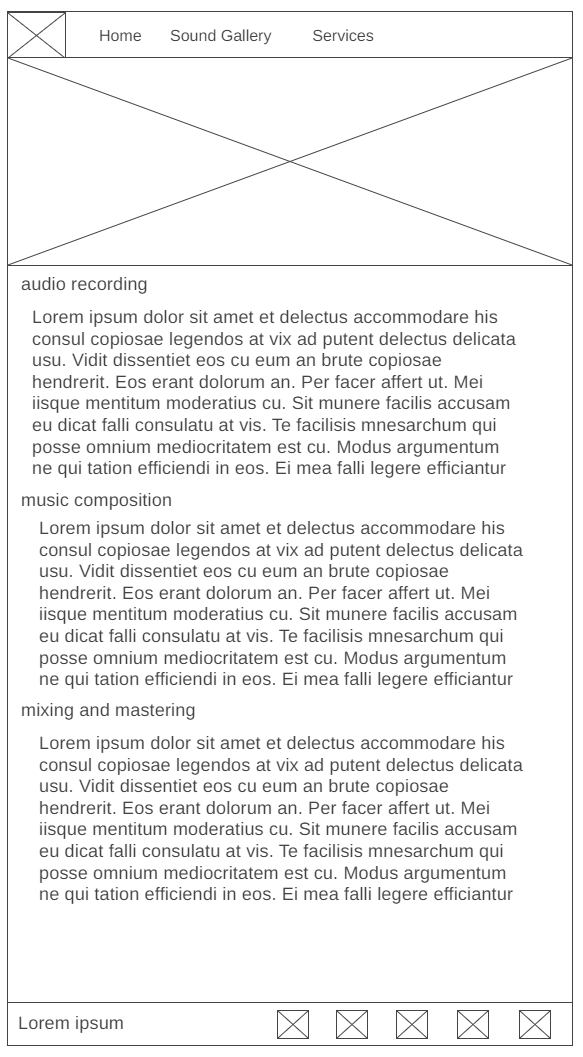
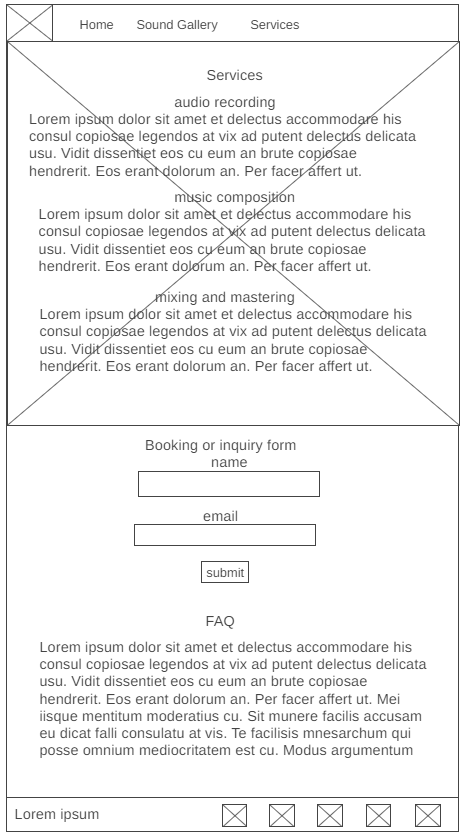
sub page

Changed region(s): [[0.0, 0.0, 1.0, 0.994], [0.9091, 0.0621, 0.9394, 0.0932]]

diff --git a/music/styles/styles.css b/music/styles/styles.css
@@ -1,9 +1,8 @@
-@import url('https://fonts.googleapis.com/css?family=IM+Fell+French+Canon+SC|Lato');
 @import url('https://fonts.googleapis.com/css2?family=Playpen+Sans:wght@200;300&display=swap');
 @import url('https://fonts.googleapis.com/css2?family=Quicksand:wght@300;400&display=swap');
 
 :root {
-    --heading-font: 'Montserrat Regular', 'Playpen Sans', cursive
+    --heading-font:'Playpen Sans', cursive
 }
 
 
@@ -11,7 +10,7 @@
     margin: 0;
 }
 body {
-    font-family: 'Montserrat Light','Quicksand', sans-serif;
+    font-family: 'Quicksand', sans-serif;
     background-color: #0D1321;
     color: #F4F4F4;
     line-height: 1.6;
@@ -41,7 +40,7 @@ nav a {
 }
 nav a:hover {
     color: #F0EBD8;
-    background-color: #0D1321;    
+    background-color: #0D1321;
 }
 
 
@@ -50,7 +49,7 @@ nav a:hover {
     display: grid;
     grid-template-columns: 1fr 1fr 1fr;
     grid-template-rows: 1fr 1fr 1fr 1fr;
-    
+
 }
 .intro img {
     width: 100%;
@@ -73,7 +72,7 @@ nav a:hover {
     grid-row: 4/5;
     color: #F0EBD8;
     align-content: center;
-    padding: 2px;   
+    padding: 2px;
 }
 
 
@@ -115,7 +114,7 @@ nav a:hover {
 
 }
 .aboutus figure img {
-    
+
     box-shadow: 0 0 20px rgba(255, 255, 255, 0.5);
 }
 .aboutus p {
@@ -198,20 +197,24 @@ nav a:hover {
 }
 .newsletter p {
     color: #F0EBD8;
+    margin-bottom: 10px;
 }
-/* Also apply to the form in the services page */
+
+/* Also apply for the form in services page */
 form {
-    display: flex;
-    flex-direction: column;
+    display: grid;
+    grid-template-columns: repeat(5, 1fr);
     align-items: center;
 }
 label {
-    display: block;
+    grid-column: 2/3;
+    text-align: right;
+    padding-right: 10px;
     margin-bottom: 10px;
     color: #F0EBD8;
 }
 input[type="email"], input[type="text"] {
-    width: 30%;
+    grid-column: 3/4;
     padding: 10px;
     margin-bottom: 15px;
     border: 1px solid #F0EBD8;
@@ -220,9 +223,12 @@ input[type="email"], input[type="text"] {
     color: #F0EBD8;
 }
 button {
+    grid-column: 3/4;
     padding: 10px 20px;
+    justify-self: center;
     border: none;
     border-radius: 5px;
+    width: 50%;
     background-color: #F2994A;
     color: #F0EBD8;
     cursor: pointer;
@@ -232,7 +238,7 @@ button:hover {
     background-color: #e06022;
 }
 
-
+/* Sevices page styles */
 /* Services styles */
 .services-provided {
     display: grid;
@@ -249,7 +255,7 @@ button:hover {
 .services-provided h2 {
     text-align: center;
     grid-column: 1/4;
-    grid-row: 1; 
+    grid-row: 1;
     font-size: 60px;
     font-style: italic;
     font-family: var(--heading-font);
@@ -280,7 +286,7 @@ button:hover {
     text-align: center;
 }
 .booking select {
-    width: 15%;
+    grid-column: 3/4;
     padding: 5px;
     margin-bottom: 15px;
     border: 1px solid #F0EBD8;
@@ -290,10 +296,12 @@ button:hover {
     font-style: italic;
 }
 .booking select option {
+    text-align: center;
     color: #0D1321;
     background-color: rgba(239, 234, 215, 0.1)
 }
 
+/* FAQ styles */
 .faq {
     background-color: #1C1F33;
     border-radius: 10px;
@@ -312,6 +320,95 @@ button:hover {
 
 }
 
+
+/* Sound Gallery page styles */
+.project-showcase {
+    display: grid;
+    grid-template-columns: 1fr 1fr 1fr;
+    grid-template-rows: auto;
+}
+.project-showcase img {
+    margin-top: -110px;
+    width: 100%;
+    grid-column: 1/4;
+    grid-row: 1/5;
+    z-index: -1;
+}
+.project-showcase h2 {
+    text-align: center;
+    grid-column: 1/4;
+    grid-row: 1;
+    font-size: 60px;
+    font-style: italic;
+    font-family: var(--heading-font);
+}
+.project-showcase p {
+    text-align: center;
+    grid-column: 1/4;
+    grid-row: 2;
+    margin: 10px 0 10px 0;
+}
+.project-showcase article h3{
+    text-align: center;
+}
+.project-showcase article p{
+    text-align: left;
+    padding-left: 25%;
+    text-decoration: none;
+}
+.project-showcase article p a{
+    text-decoration: none;
+    color: #F0EBD8;
+}
+#article-1 {
+    grid-column: 1/2;
+    grid-row: 3;
+    padding: 20px;
+    margin-top: 40px;
+}
+#article-2 {
+    grid-column: 2/3;
+    grid-row: 3;
+    padding: 20px;
+    margin-top: 40px;
+}
+#article-3 {
+    grid-column: 2/3;
+    grid-row: 3;
+    padding: 20px;
+    margin-top: 40px;
+}
+.success-stories{
+    display: grid;
+    grid-template-columns: repeat(5, 1fr);
+    background-color: #1C1F33;
+    border-radius: 10px;
+    padding: 20px;
+    margin-top: 40px;
+    text-align: center;
+}
+.success-stories h2 {
+    grid-column: 1/6;
+}
+.success-stories p {
+    grid-column: 2/5;
+    margin: 10px 0 10px 0;
+}
+.success-stories article {
+    grid-column: 2/5;
+    margin: 10px 0 10px 0;
+}
+
+.behind-the-scenes {
+    padding: 20px;
+    margin-top: 40px;
+    text-align: center;
+    background-color: rgba(28, 31, 48, 0.712);
+}
+.behind-the-scenes p a {
+    text-decoration: none;
+    color: #F0EBD8;
+}
 
 /* footer styles */
 footer{
@@ -344,7 +441,7 @@ footer{
 .social-icons a {
     text-decoration: none;
     padding: 10px;
-    
+
 }
 .social-icons a i {
     transition: all .3s ease 0s;
@@ -355,7 +452,7 @@ footer{
 
 @media (max-width: 700px) {
     footer, header{
-        flex-direction: column; 
+        flex-direction: column;
     }
     .footer-bottom, .social-icons{
         text-align: center;

diff --git a/music/sound_gallery.html b/music/sound_gallery.html
@@ -23,28 +23,28 @@
     </header>
 
     <main>
-        <section>
-            <h2>Project Showcase</h2>
+        <section class="project-showcase">
             <img src="images/Headphones.jpg" alt="Beautiful headphones">
+            <h2>Project Showcase</h2>
             <p>Explore a selection of our music production projects that span genres and styles. Each project reflects
                 our commitment to quality and artistic expression. Click on the links to listen to our work.</p>
 
-            <article>
+            <article id="article-1">
                 <h3>Untitled Track</h3>
                 <p><strong>Genre:</strong> Drill</p>
                 <p><strong>Description:</strong> Hip-hop variant type of beat</p>
-                <p><strong>Listen Now:</strong> <a href="audio/untitled_track.mp3" target="_blank">Listen Now</a></p>
+                <p><strong>Listen Now:</strong> <a href="audio/untitled_track.mp3" target="_blank">Untitled Track</a></p>
             </article>
 
-            <article>
+            <article id="article-2">
                 <h3>Amapiano</h3>
                 <p><strong>Genre:</strong> Amapiano</p>
                 <p><strong>Description:</strong> Typical South African rhythm</p>
-                <p><strong>Listen Now:</strong> <a href="audio/amapiano.mp3" target="_blank">Listen Now</a></p>
+                <p><strong>Listen Now:</strong> <a href="audio/amapiano.mp3" target="_blank">Amapiano</a></p>
             </article>
         </section>
 
-        <section>
+        <section class="success-stories">
             <h2>Success Stories</h2>
             <p>Our success stories highlight the artists and bands that have achieved recognition with our help. Their
                 journeys from the studio to the stage inspire us, and we're proud to have played a part in their musical
@@ -59,22 +59,12 @@
             </article>
         </section>
 
-        <section>
+        <section class="behind-the-scenes">
             <h2>Behind the Scenes</h2>
             <p>Get an exclusive look behind the scenes at our recording studio. From the equipment we use to the
                 creative process, take a glimpse into what makes our music production team unique. Watch our video tour
                 to see where the magic happens.</p>
-            <p><a href="https://www.youtube.com/watch?v=yourvideoID" target="_blank">Watch Video Tour</a></p>
-        </section>
-
-        <!-- Navigation Section -->
-        <section>
-            <h2>Navigation</h2>
-            <ul>
-                <li><a href="#project-showcase">Project Showcase</a></li>
-                <li><a href="#success-stories">Success Stories</a></li>
-                <li><a href="#behind-the-scenes">Behind the Scenes</a></li>
-            </ul>
+            <p><a href="https://www.youtube.com/watch?v=yourvideoID" target="_blank">Watch Video Tour!!!</a></p>
         </section>
     </main>
 

diff --git a/music/site-plan.html b/music/site-plan.html
@@ -220,6 +220,12 @@
       <br>Mixing and Mastering<br>
       Mixing and mastering are the final steps in perfecting your music. Our engineers use industry-standard software and
       techniques to balance and enhance your tracks, ensuring they sound impeccable on all devices and platforms.<br>
+
+      <br>Boking and Inquiry form <br>
+      For all those who are interested in our services, you can book a session or ask a question about our offering.<br>
+
+      <br>FAQ <br>
+      These are the most Frequently asked questions
     </p>
     <p>Images for the Page 2</p>
     <img src="images/mixing.jpg" alt="image for page">

diff --git a/music/services.html b/music/services.html
@@ -63,7 +63,7 @@
                 <input type="email" id="email" name="email" required>
                 <label>Select Service:</label>
                 <select id="service" name="service">
-                    <option value=""></option>
+                    <option value=" "></option>
                     <option value="audio-recording">Audio Recording</option>
                     <option value="music-composition">Music Composition</option>
                     <option value="mixing-mastering">Mixing and Mastering</option>
